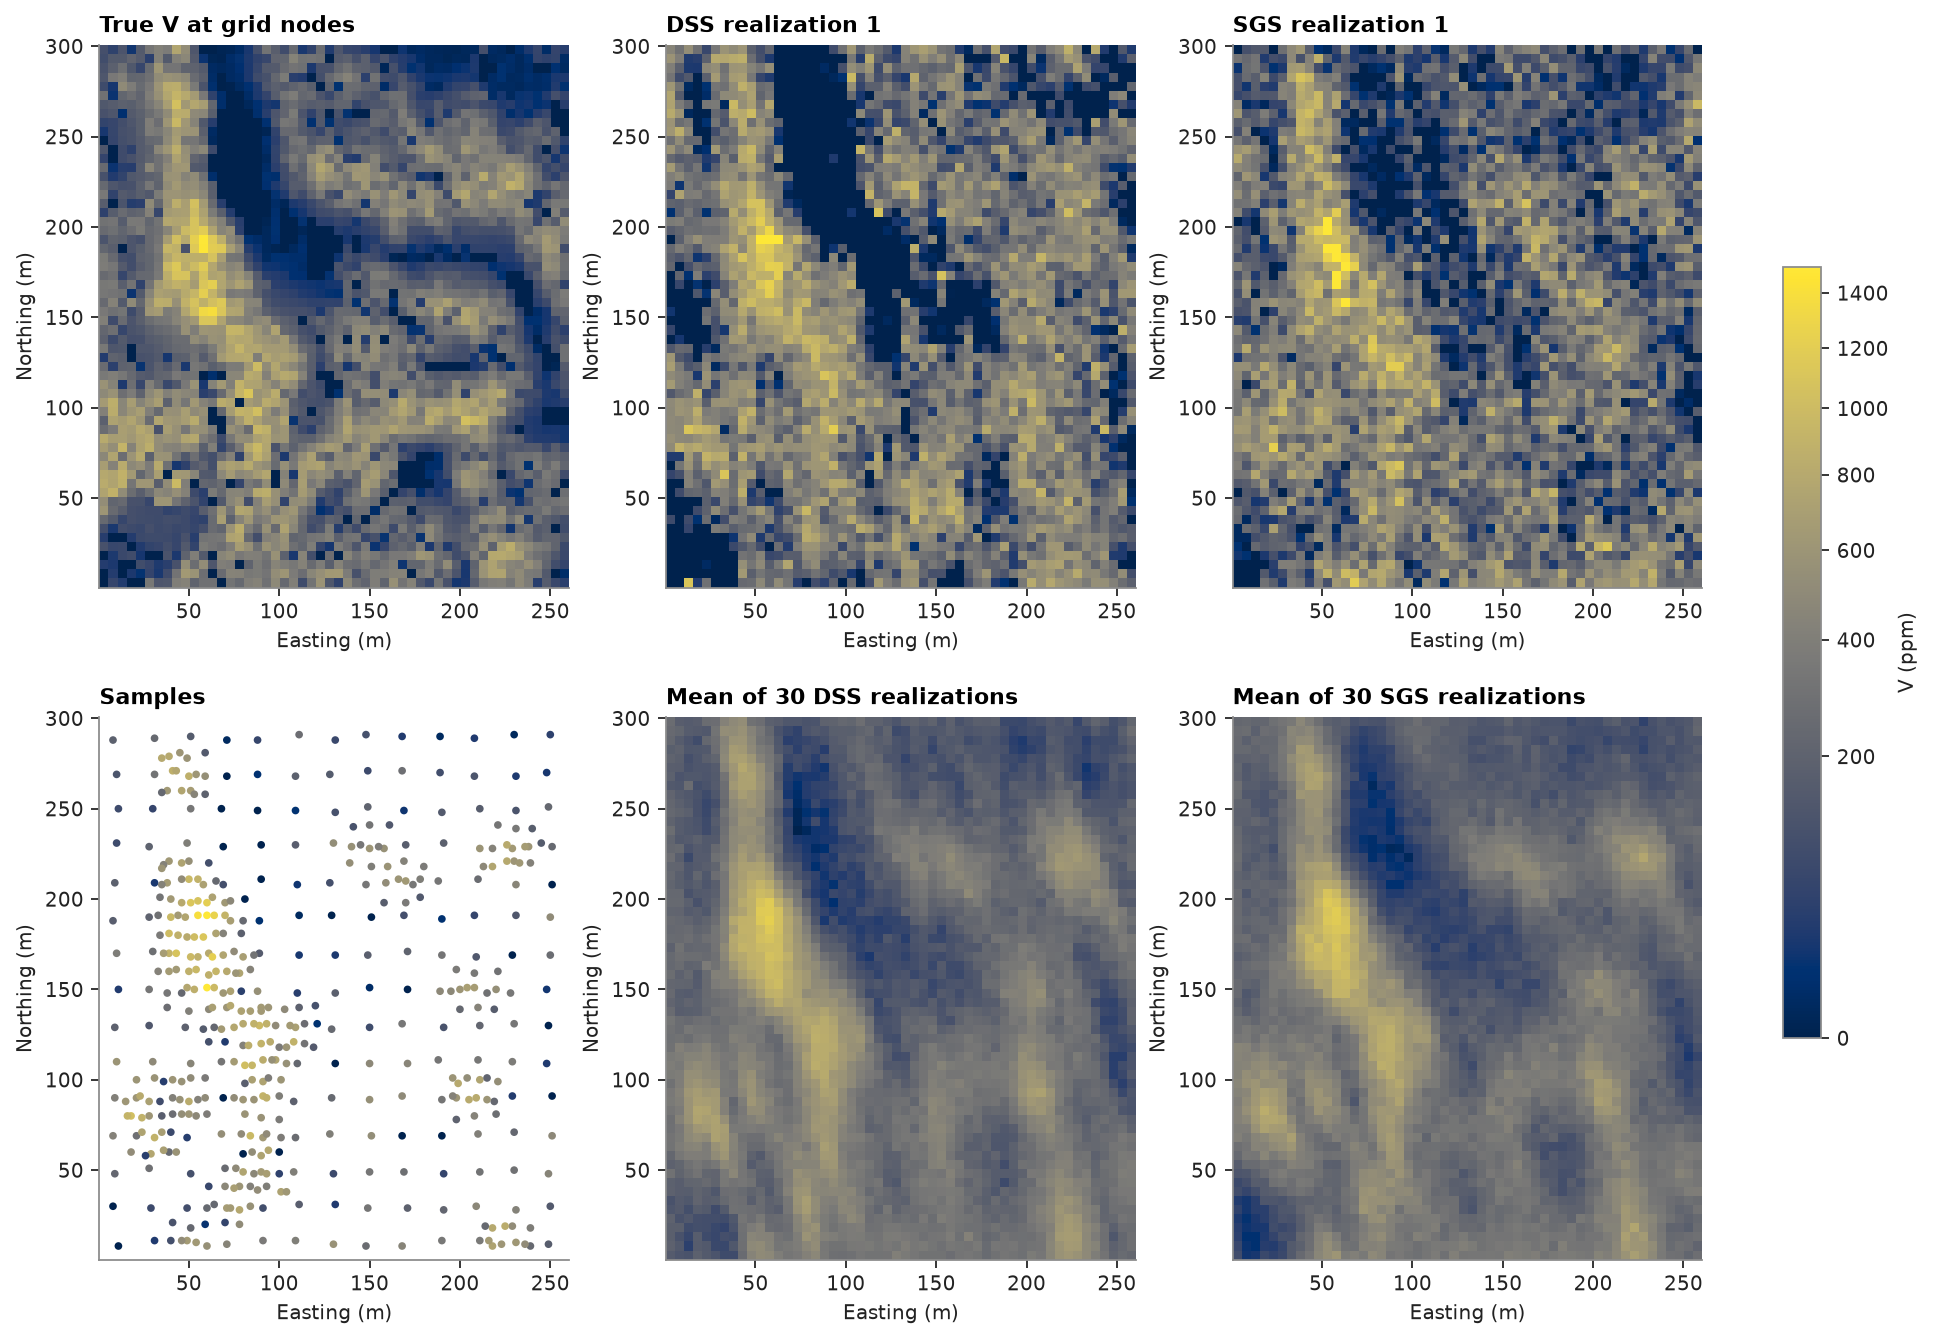
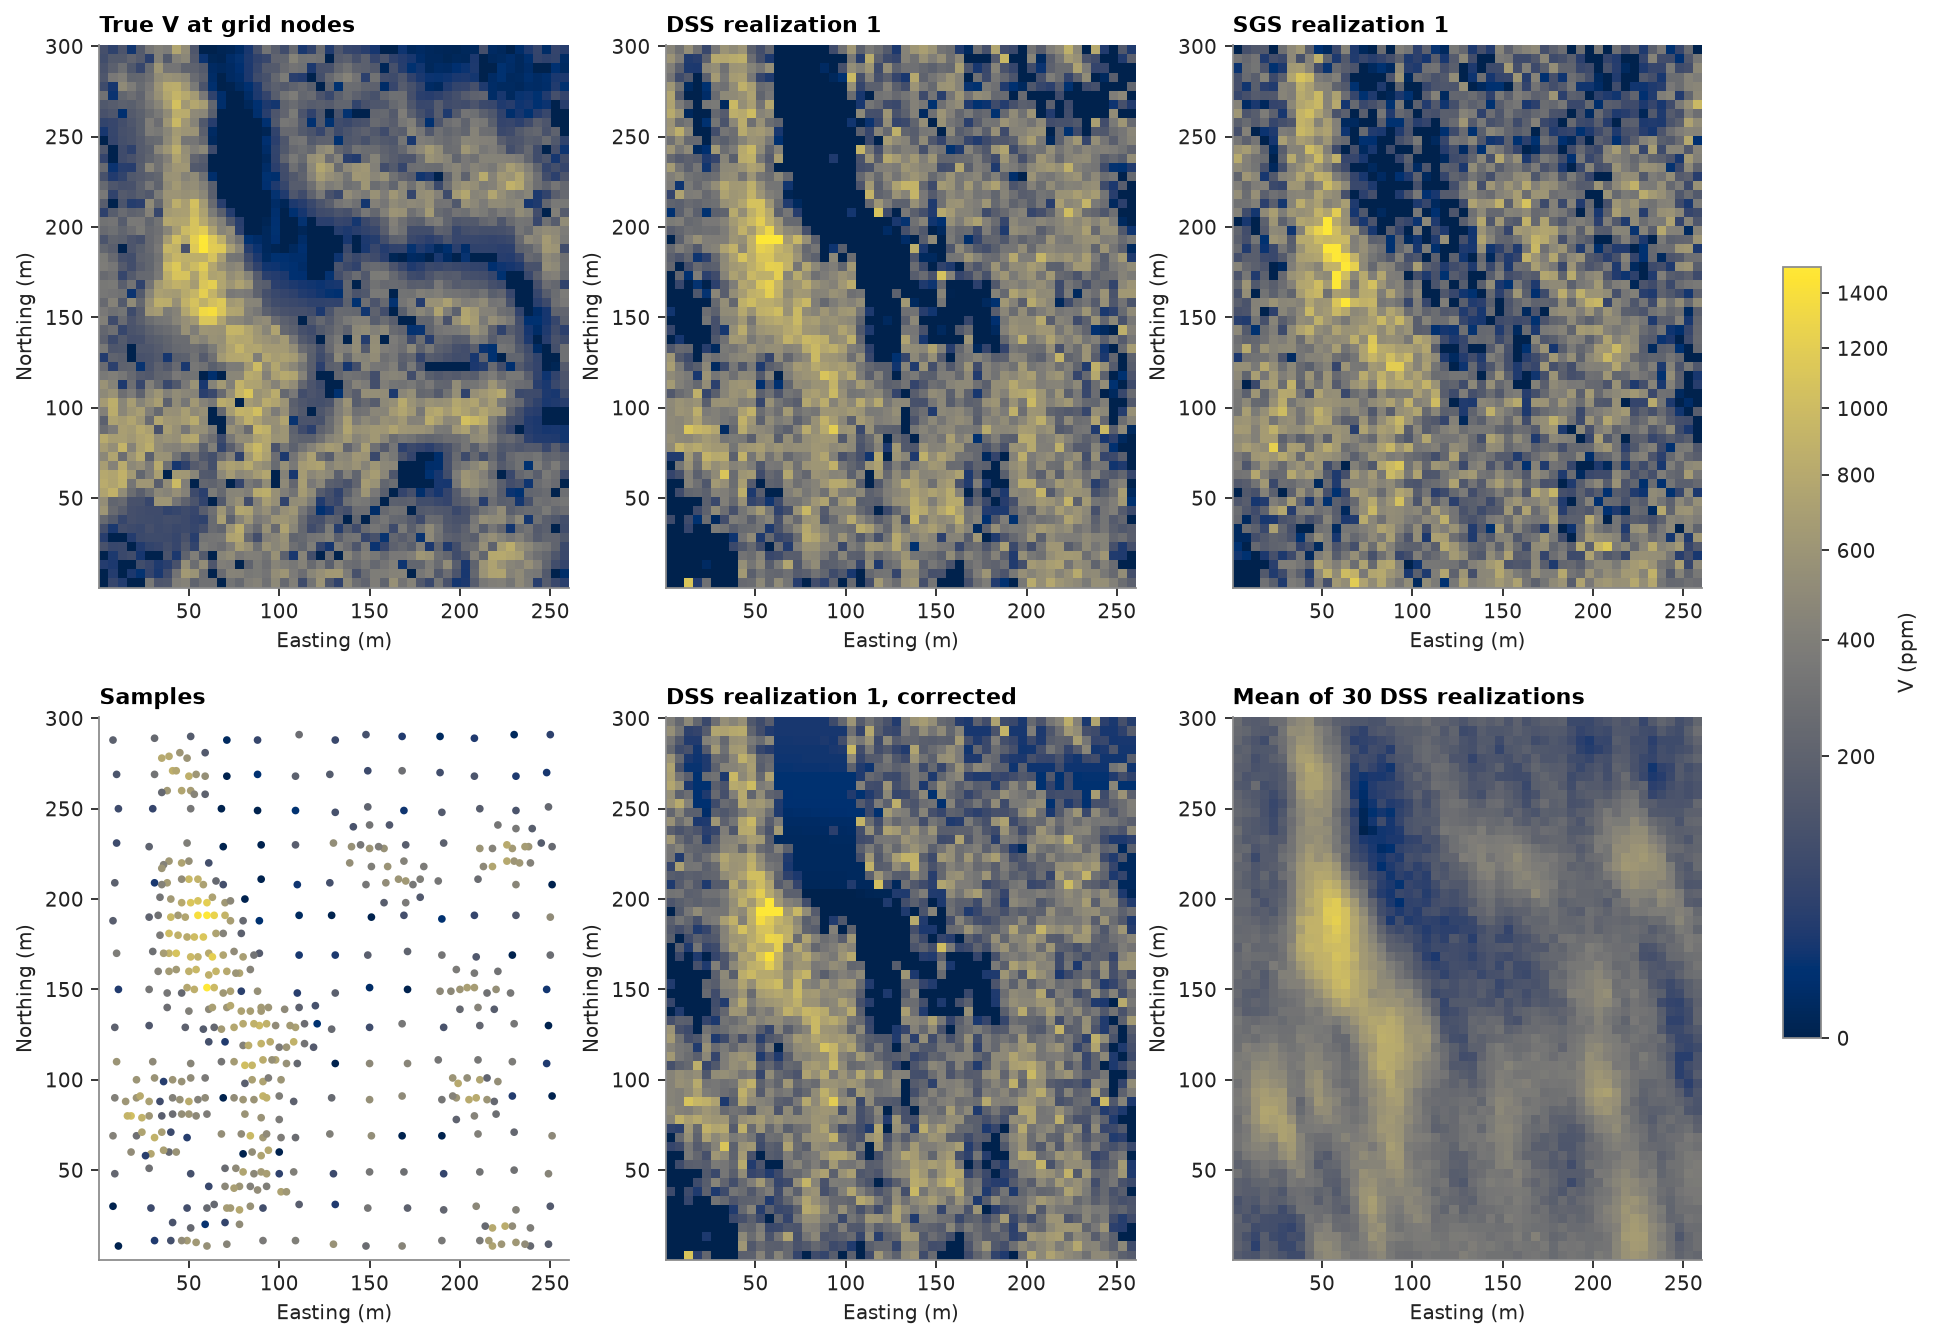
fix(python): DSS clamp share over simulated nodes; example corrects the histogram

diff --git a/examples/08-stochastic-simulation/08-direct-sequential-simulation/example_08_08.py b/examples/08-stochastic-simulation/08-direct-sequential-simulation/example_08_08.py
@@ -62,6 +62,12 @@ print(f"normal scores: {gaussian}\ngrades:        {raw}")
 # back-transform of a gaussian whose transformed mean and variance equal the kriged ones. near the tails, or where
 # kriging extrapolates beyond the data, no such draw exists; DSS takes the nearest reachable pair and warns with the
 # share of nodes it moved. both simulators run 30 realizations from the same seed.
+#
+# each DSS draw matches its kriged mean and variance, but the histogram of a realization need not match the data. V is
+# skewed, with 9% of the declustered samples at 0 ppm, and its variogram has a 35% nugget, so the kriging variance
+# stays large where the kriged mean is low. the only draws with a low mean and a large variance put most of their
+# weight at 0 ppm and the rest at high grades. `correct_distribution` maps each realization, rank by rank, onto the
+# declustered histogram.
 
 # %%
 grid = bt.BlockModel(origin=(0.5, 0.5), size=(5, 5), count=(52, 60))
@@ -73,25 +79,27 @@ with warnings.catch_warnings(record=True) as caught:
 for warning in caught:
     print(warning.message)
 sgs = bt.SGS(gaussian, search).fit(samples, "V", weights=weights).simulate(grid, **options)
+corrected = bt.correct_distribution(dss, v, weights=weights)
 
 nodes = grid.centroids.astype(int)
 true_at_nodes = truth[nodes[:, 1] - 1, nodes[:, 0] - 1]
-for name, s in (("DSS", dss), ("SGS", sgs)):
-    reals = s.realizations
+for name, reals in (("DSS", dss.realizations), ("corrected DSS", corrected), ("SGS", sgs.realizations)):
     print(
         f"{name}: mean {reals.mean():.0f}, variance {reals.var(axis=1).mean():.0f}, "
-        f"area above 500 ppm {np.mean(reals > 500):.1%}"
+        f"at 0 ppm {np.mean(reals <= 0):.1%}, above 500 ppm {np.mean(reals > 500):.1%}"
     )
 print(
     f"true: mean {true_at_nodes.mean():.0f}, variance {true_at_nodes.var():.0f}, "
-    f"area above 500 ppm {np.mean(true_at_nodes > 500):.1%}"
+    f"at 0 ppm {np.mean(true_at_nodes <= 0):.1%}, above 500 ppm {np.mean(true_at_nodes > 500):.1%}"
 )
 
 
 # %% [markdown]
-# the DSS realization puts the high grades where the SGS one does. its low-grade areas form wider patches at the
-# lowest grades: where the kriged mean falls below anything the histogram reaches, DSS takes the bottom of the
-# histogram. the means of 30 realizations agree.
+# DSS puts 19% of the nodes at 0 ppm, twice the declustered share, in wide patches across the low-grade areas. after
+# the correction, realization 1 keeps the same pattern of high and low grades with 9% at 0 ppm. the DSS and SGS
+# realizations average about 300 ppm with a variance near 72,000 ppm², above the declustered 291 ppm and 65,006 ppm²:
+# the grid nodes near the clustered high-grade samples copy them. the corrected realizations take the declustered mean
+# and variance exactly.
 
 # %%
 shape = (60, 52)
@@ -105,8 +113,8 @@ for ax, image, title in (
     (axes[0, 0], true_at_nodes, "True V at grid nodes"),
     (axes[0, 1], dss.realizations[0], "DSS realization 1"),
     (axes[0, 2], sgs.realizations[0], "SGS realization 1"),
-    (axes[1, 1], dss.mean, "Mean of 30 DSS realizations"),
-    (axes[1, 2], sgs.mean, "Mean of 30 SGS realizations"),
+    (axes[1, 1], corrected[0], "DSS realization 1, corrected"),
+    (axes[1, 2], dss.mean, "Mean of 30 DSS realizations"),
 ):
     im = ax.imshow(image.reshape(shape), origin="lower", extent=extent, norm=norm)
     map_axes(ax, title)
@@ -115,22 +123,27 @@ save(fig, "maps")
 
 
 # %% [markdown]
-# SGS reproduces the declustered histogram. DSS draws too many of the lowest grades: these are the nodes the warning
-# counted. on V, the DSS realizations follow their model, rescaled to the declustered variance (dashed). the SGS
-# realizations come as close, because on walker lake the variograms of the scores and of V have about the same shape.
-# the samples sit above both curves since they cluster in the high grades.
+# the corrected DSS and the SGS realizations follow the declustered histogram. the variograms of the corrected DSS
+# realizations level off at the declustered variance (dashed) and run slightly below the model of V at short lags.
+# before the correction they level off about 10% above that sill, as their variance does, and the SGS realizations do
+# the same. the samples sit above every curve since they cluster in the high grades.
 
 # %%
-fig, axes = plt.subplots(1, 3, figsize=(13, 3.8), layout="constrained")
+fig, axes = plt.subplots(2, 2, figsize=(11, 8), layout="constrained")
 order = np.argsort(v)
 h = np.linspace(0, max_lag, 200)
 data_exp = bt.experimental_variogram(xy, v, lag, max_lag, azimuth=azimuth)
-for ax, name, s, color in ((axes[1], "DSS", dss, ACCENT), (axes[2], "SGS", sgs, HIGHLIGHT)):
-    for r in s.realizations:
-        axes[0].plot(np.sort(r), np.linspace(0, 1, r.size), color=color, lw=0.5, alpha=0.25)
+sets = (
+    (axes[0, 1], "DSS", dss.realizations, ACCENT),
+    (axes[1, 1], "SGS", sgs.realizations, GRAY),
+    (axes[1, 0], "corrected DSS", corrected, HIGHLIGHT),
+)
+for ax, name, reals, color in sets:
+    for r in reals:
+        axes[0, 0].plot(np.sort(r), np.linspace(0, 1, r.size), color=color, lw=0.5, alpha=0.25)
         exp = bt.experimental_variogram(grid.centroids, r, lag, max_lag, azimuth=azimuth)
         ax.plot(exp.lags, exp.gammas / 1e3, color=LIGHT, lw=0.8)
-    axes[0].plot([], [], color=color, label=f"30 {name} realizations")
+    axes[0, 0].plot([], [], color=color, label=f"30 {name} realizations")
     ax.plot([], [], color=LIGHT, label=f"30 {name} realizations")
     ax.plot(data_exp.lags, data_exp.gammas / 1e3, "o", color=INK, ms=4, label="samples")
     ax.plot(h, variance * raw.gamma(h) / 1e3, color=color, lw=1.4, label="model of V")
@@ -138,7 +151,7 @@ for ax, name, s, color in ((axes[1], "DSS", dss, ACCENT), (axes[2], "SGS", sgs, 
     ax.set(xlim=(0, max_lag), ylim=(0, 1.6 * variance / 1e3), xlabel="Lag distance (m)")
     ax.set(ylabel="γ(h) of V (10³ ppm²)", title=f"{name} variogram of V, N{azimuth:.0f}°")
     ax.legend(loc="lower right")
-axes[0].step(
+axes[0, 0].step(
     v[order],
     np.cumsum(weights[order]) / weights.sum(),
     color=INK,
@@ -146,8 +159,10 @@ axes[0].step(
     where="post",
     label="declustered samples",
 )
-axes[0].set(xlim=(0, 1600), xlabel="V (ppm)", ylabel="Cumulative probability", title="Histogram reproduction")
-axes[0].legend(loc="lower right")
+axes[0, 0].set(
+    xlim=(0, 1600), xlabel="V (ppm)", ylabel="Cumulative probability", title="Histogram reproduction"
+)
+axes[0, 0].legend(loc="lower right")
 save(fig, "reproduction")
 
 # %% [markdown]

diff --git a/crates/py/src/simulation.rs b/crates/py/src/simulation.rs
@@ -1274,6 +1274,10 @@ impl Sgs {
 /// kriged ones. A kriged pair that no such draw reaches, such as a mean
 /// beyond the data or a large variance near the tails, takes the nearest
 /// reachable pair; `simulate` warns with the fraction of such nodes.
+/// Each draw matches the kriged mean and variance, not the shape of the
+/// histogram: on skewed grades with a large nugget, low means take wide
+/// draws and the realizations hold too many extreme grades, which
+/// `correct_distribution` maps back to the histogram.
 ///
 /// `search` is a Search, or a sequence of them as passes, as in SGS. With
 /// `domains` at `fit`, Search.soft lets the raw grades of other domains
@@ -1531,6 +1535,7 @@ impl Dss {
             tonnage: gt,
         };
         let clamped = std::sync::atomic::AtomicUsize::new(0);
+        let simulated = std::sync::atomic::AtomicUsize::new(0);
         let summary = with_progress(py, Some(n as u64), progress, |counter| {
             simulation::continuous(
                 n,
@@ -1552,6 +1557,8 @@ impl Dss {
                         local.as_ref(),
                     )?;
                     clamped.fetch_add(r.clamped, std::sync::atomic::Ordering::Relaxed);
+                    let done = r.values.iter().filter(|v| !v.is_nan()).count();
+                    simulated.fetch_add(done, std::sync::atomic::Ordering::Relaxed);
                     averaged(&support, r.values)
                 },
                 counter,
@@ -1560,7 +1567,7 @@ impl Dss {
         .map_err(err)?;
         let clamped = clamped.into_inner();
         if clamped > 0 {
-            let share = 100.0 * clamped as f64 / (n * grid.len()) as f64;
+            let share = 100.0 * clamped as f64 / simulated.into_inner() as f64;
             let message = format!(
                 "{share:.2}% of simulated nodes had a kriged mean and variance no draw reaches; \
                  drew them from the nearest reachable pair"

diff --git a/examples/08-stochastic-simulation/08-direct-sequential-simulation/README.md b/examples/08-stochastic-simulation/08-direct-sequential-simulation/README.md
@@ -69,6 +69,12 @@ back-transform of a gaussian whose transformed mean and variance equal the krige
 kriging extrapolates beyond the data, no such draw exists; DSS takes the nearest reachable pair and warns with the
 share of nodes it moved. both simulators run 30 realizations from the same seed.
 
+each DSS draw matches its kriged mean and variance, but the histogram of a realization need not match the data. V is
+skewed, with 9% of the declustered samples at 0 ppm, and its variogram has a 35% nugget, so the kriging variance
+stays large where the kriged mean is low. the only draws with a low mean and a large variance put most of their
+weight at 0 ppm and the rest at high grades. `correct_distribution` maps each realization, rank by rank, onto the
+declustered histogram.
+
 <details><summary>Python</summary>
 
 ```python
@@ -81,18 +87,18 @@ with warnings.catch_warnings(record=True) as caught:
 for warning in caught:
     print(warning.message)
 sgs = bt.SGS(gaussian, search).fit(samples, "V", weights=weights).simulate(grid, **options)
+corrected = bt.correct_distribution(dss, v, weights=weights)
 
 nodes = grid.centroids.astype(int)
 true_at_nodes = truth[nodes[:, 1] - 1, nodes[:, 0] - 1]
-for name, s in (("DSS", dss), ("SGS", sgs)):
-    reals = s.realizations
+for name, reals in (("DSS", dss.realizations), ("corrected DSS", corrected), ("SGS", sgs.realizations)):
     print(
         f"{name}: mean {reals.mean():.0f}, variance {reals.var(axis=1).mean():.0f}, "
-        f"area above 500 ppm {np.mean(reals > 500):.1%}"
+        f"at 0 ppm {np.mean(reals <= 0):.1%}, above 500 ppm {np.mean(reals > 500):.1%}"
     )
 print(
     f"true: mean {true_at_nodes.mean():.0f}, variance {true_at_nodes.var():.0f}, "
-    f"area above 500 ppm {np.mean(true_at_nodes > 500):.1%}"
+    f"at 0 ppm {np.mean(true_at_nodes <= 0):.1%}, above 500 ppm {np.mean(true_at_nodes > 500):.1%}"
 )
 ```
 
@@ -100,14 +106,17 @@ print(
 
 ```text
 11.71% of simulated nodes had a kriged mean and variance no draw reaches; drew them from the nearest reachable pair
-DSS: mean 302, variance 72524, area above 500 ppm 24.2%
-SGS: mean 299, variance 71069, area above 500 ppm 22.1%
-true: mean 276, variance 62312, area above 500 ppm 18.9%
+DSS: mean 302, variance 72524, at 0 ppm 18.8%, above 500 ppm 24.2%
+corrected DSS: mean 291, variance 65002, at 0 ppm 9.1%, above 500 ppm 21.1%
+SGS: mean 299, variance 71069, at 0 ppm 9.5%, above 500 ppm 22.1%
+true: mean 276, variance 62312, at 0 ppm 7.6%, above 500 ppm 18.9%
 ```
 
-the DSS realization puts the high grades where the SGS one does. its low-grade areas form wider patches at the
-lowest grades: where the kriged mean falls below anything the histogram reaches, DSS takes the bottom of the
-histogram. the means of 30 realizations agree.
+DSS puts 19% of the nodes at 0 ppm, twice the declustered share, in wide patches across the low-grade areas. after
+the correction, realization 1 keeps the same pattern of high and low grades with 9% at 0 ppm. the DSS and SGS
+realizations average about 300 ppm with a variance near 72,000 ppm², above the declustered 291 ppm and 65,006 ppm²:
+the grid nodes near the clustered high-grade samples copy them. the corrected realizations take the declustered mean
+and variance exactly.
 
 <details><summary>Python</summary>
 
@@ -123,8 +132,8 @@ for ax, image, title in (
     (axes[0, 0], true_at_nodes, "True V at grid nodes"),
     (axes[0, 1], dss.realizations[0], "DSS realization 1"),
     (axes[0, 2], sgs.realizations[0], "SGS realization 1"),
-    (axes[1, 1], dss.mean, "Mean of 30 DSS realizations"),
-    (axes[1, 2], sgs.mean, "Mean of 30 SGS realizations"),
+    (axes[1, 1], corrected[0], "DSS realization 1, corrected"),
+    (axes[1, 2], dss.mean, "Mean of 30 DSS realizations"),
 ):
     im = ax.imshow(image.reshape(shape), origin="lower", extent=extent, norm=norm)
     map_axes(ax, title)
@@ -136,24 +145,29 @@ save(fig, "maps")
 
 ![maps](maps.png)
 
-SGS reproduces the declustered histogram. DSS draws too many of the lowest grades: these are the nodes the warning
-counted. on V, the DSS realizations follow their model, rescaled to the declustered variance (dashed). the SGS
-realizations come as close, because on walker lake the variograms of the scores and of V have about the same shape.
-the samples sit above both curves since they cluster in the high grades.
+the corrected DSS and the SGS realizations follow the declustered histogram. the variograms of the corrected DSS
+realizations level off at the declustered variance (dashed) and run slightly below the model of V at short lags.
+before the correction they level off about 10% above that sill, as their variance does, and the SGS realizations do
+the same. the samples sit above every curve since they cluster in the high grades.
 
 <details><summary>Python</summary>
 
 ```python
-fig, axes = plt.subplots(1, 3, figsize=(13, 3.8), layout="constrained")
+fig, axes = plt.subplots(2, 2, figsize=(11, 8), layout="constrained")
 order = np.argsort(v)
 h = np.linspace(0, max_lag, 200)
 data_exp = bt.experimental_variogram(xy, v, lag, max_lag, azimuth=azimuth)
-for ax, name, s, color in ((axes[1], "DSS", dss, ACCENT), (axes[2], "SGS", sgs, HIGHLIGHT)):
-    for r in s.realizations:
-        axes[0].plot(np.sort(r), np.linspace(0, 1, r.size), color=color, lw=0.5, alpha=0.25)
+sets = (
+    (axes[0, 1], "DSS", dss.realizations, ACCENT),
+    (axes[1, 1], "SGS", sgs.realizations, GRAY),
+    (axes[1, 0], "corrected DSS", corrected, HIGHLIGHT),
+)
+for ax, name, reals, color in sets:
+    for r in reals:
+        axes[0, 0].plot(np.sort(r), np.linspace(0, 1, r.size), color=color, lw=0.5, alpha=0.25)
         exp = bt.experimental_variogram(grid.centroids, r, lag, max_lag, azimuth=azimuth)
         ax.plot(exp.lags, exp.gammas / 1e3, color=LIGHT, lw=0.8)
-    axes[0].plot([], [], color=color, label=f"30 {name} realizations")
+    axes[0, 0].plot([], [], color=color, label=f"30 {name} realizations")
     ax.plot([], [], color=LIGHT, label=f"30 {name} realizations")
     ax.plot(data_exp.lags, data_exp.gammas / 1e3, "o", color=INK, ms=4, label="samples")
     ax.plot(h, variance * raw.gamma(h) / 1e3, color=color, lw=1.4, label="model of V")
@@ -161,7 +175,7 @@ for ax, name, s, color in ((axes[1], "DSS", dss, ACCENT), (axes[2], "SGS", sgs, 
     ax.set(xlim=(0, max_lag), ylim=(0, 1.6 * variance / 1e3), xlabel="Lag distance (m)")
     ax.set(ylabel="γ(h) of V (10³ ppm²)", title=f"{name} variogram of V, N{azimuth:.0f}°")
     ax.legend(loc="lower right")
-axes[0].step(
+axes[0, 0].step(
     v[order],
     np.cumsum(weights[order]) / weights.sum(),
     color=INK,
@@ -169,8 +183,10 @@ axes[0].step(
     where="post",
     label="declustered samples",
 )
-axes[0].set(xlim=(0, 1600), xlabel="V (ppm)", ylabel="Cumulative probability", title="Histogram reproduction")
-axes[0].legend(loc="lower right")
+axes[0, 0].set(
+    xlim=(0, 1600), xlabel="V (ppm)", ylabel="Cumulative probability", title="Histogram reproduction"
+)
+axes[0, 0].legend(loc="lower right")
 save(fig, "reproduction")
 ```
 

diff --git a/examples/README.md b/examples/README.md
@@ -134,7 +134,7 @@ Worked examples with the Python API on open datasets from [gstvschlz/datasets](h
 | 5 | [Simulation with a trend](08-stochastic-simulation/05-simulation-with-trend/README.md) | Walker Lake | `cell_declustering`, `BlockModel`, `MovingAverage`, `Search`, `StepwiseConditional`, `NormalScore`, `experimental_variogram`, `Variogram`, `SGS` |
 | 6 | [Multivariate simulation](08-stochastic-simulation/06-multivariate-simulation/README.md) | Porphyry geometallurgy | `PointSet`, `cell_declustering`, `BlockModel`, `Search`, `PPMT`, `PCA`, `experimental_variogram`, `MultivariateSimulation`, `TurningBands` |
 | 7 | [Collocated cosimulation](08-stochastic-simulation/07-collocated-cosimulation/README.md) | Jura | `NormalScore`, `experimental_variogram`, `Variogram`, `BlockModel`, `Search`, `SGS`, `check_realizations`, `plot.histogram_reproduction`, `plot.variogram_reproduction` |
-| 8 | [Direct sequential simulation](08-stochastic-simulation/08-direct-sequential-simulation/README.md) | Walker Lake | `cell_declustering`, `NormalScore`, `experimental_variogram`, `Variogram`, `BlockModel`, `Search`, `DSS`, `SGS` |
+| 8 | [Direct sequential simulation](08-stochastic-simulation/08-direct-sequential-simulation/README.md) | Walker Lake | `cell_declustering`, `NormalScore`, `experimental_variogram`, `Variogram`, `BlockModel`, `Search`, `DSS`, `SGS`, `correct_distribution` |
 
 ## Recoverable resources
 
